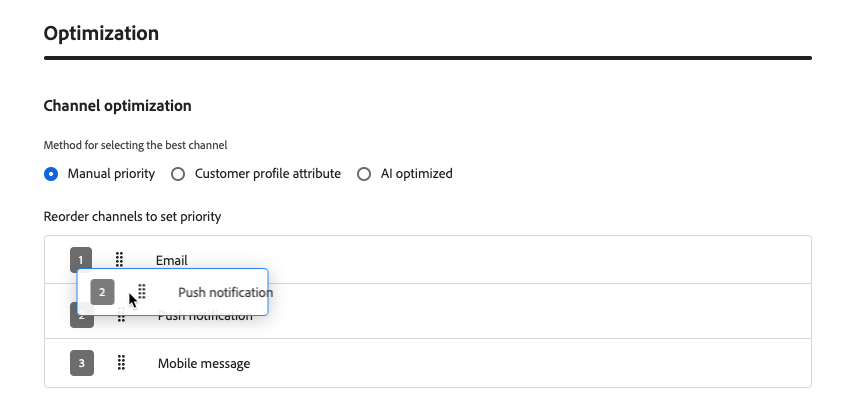
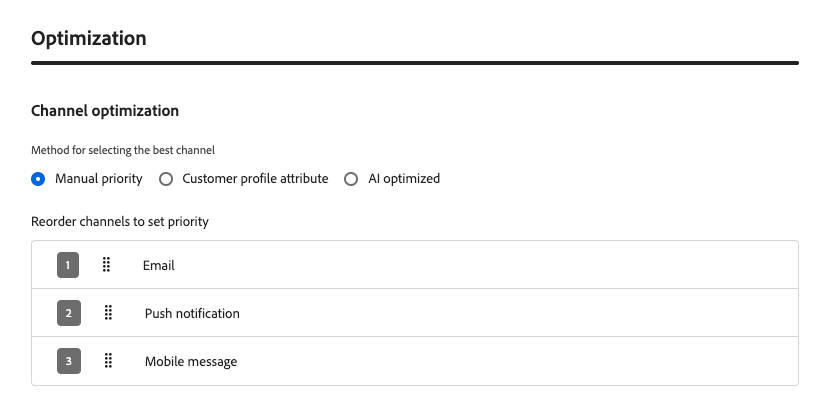
PM feedback + multiple small updates

diff --git a/help/using/building-journeys/channel-optimization.md b/help/using/building-journeys/channel-optimization.md
@@ -7,7 +7,7 @@ feature: Journeys, Activities, Channels Activity
 topic: Content Management, Artificial Intelligence
 role: User
 level: Intermediate
-keywords: channel, optimization, preference, propensity, AI, outbound, email, push, SMS
+keywords: channel, optimization, preference, propensity, AI, outbound, email, push, mobile message
 badge: label="Limited Availability" type="Informative"
 product_v2:
   - id: cb954087-f4fc-4456-afb9-e939cabcdc79
@@ -40,31 +40,39 @@ topic_v2:
 
 >[!BEGINSHADEBOX]
 
-**On this page:** Learn how to configure a journey action to deliver messages through the best outbound channel for each customer, using manual ranking, profile preferences, or AI-powered propensity scores.
+**On this page:** Learn how to configure a journey or campaign action to deliver messages through the best outbound channel for each customer, using manual ranking, profile preferences, or AI-powered propensity scores.
 
 >[!ENDSHADEBOX]
 
-Channel optimization lets you add multiple outbound channels (Email, Push, SMS) to a single journey action and have Journey Optimizer automatically select the best one for each customer at send time. Instead of choosing one channel upfront or messaging customers across all channels at once, the system picks the highest-ranked channel each customer is opted into and falls back gracefully when that channel is unavailable.
+Channel optimization lets you add multiple outbound channels (Email, Push, Mobile message) to a single journey or campaign action and have Journey Optimizer automatically select the best one for each customer at send time. Instead of choosing one channel upfront or messaging customers across all channels at once, the system picks the highest-ranked channel each customer is opted into and falls back gracefully when that channel is unavailable.
 
 ➡ [Learn more about channel optimization in this video](#video)
 
 ## Guardrails and limitations {#limitations}
 
-* **Supported channels**: Only native Email, Push, and SMS (mobile messaging) channels are supported. Other outbound channels such as WhatsApp are not supported. Channel optimization requires the use of AJO's native email, push, and mobile messaging capabilities; execution through custom actions is not supported.
+* **Supported channels**: Only native Email, Push, and Mobile message channels are supported. Other outbound channels such as WhatsApp are not supported. Channel optimization requires the use of Journey Optimizer's native email, push, and mobile messaging capabilities; execution through custom actions is not supported.
 
 * **AI optimization metric**: The AI model optimizes for engagement (clicks) only. It does not optimize for orders, revenue, or other business metrics. If optimization for orders or revenue is required, a custom model can be trained offline by your data science team and applied via the customer profile attribute feature.
 
 * **Click tracking required for AI ranking**: When using AI model-based ranking, click tracking must be enabled for all configured channels. The model relies on click data to compute propensity scores; if tracking is disabled, the AI ranking mode cannot function correctly. [Learn how to enable click tracking in email](../email/message-tracking.md)
 
-* **Quiet hours**: All channels within a single channel optimization action must share the same quiet hours rule. If different quiet hours settings are required per channel, create separate journey actions instead of combining channels into a single action. In campaigns, the form validates that the same quiet hours rule is applied to all actions.
+* **Quiet hours**: When multiple channels are combined in a single action, quiet hours are applied based on channel priority: Mobile messaging takes precedence, followed by Push, then Email. To use different quiet hours settings per channel, create separate journey actions rather than combining channels in a single action.
+
+  >[!NOTE]
+  >
+  >Support for per-channel quiet hours settings is planned for the General Availability release.
 
 * **Send-Time Optimization incompatibility**: Currently [Send-Time Optimization](send-time-optimization.md) and channel optimization cannot be used together — choose one or the other. The UI prevents enabling both features simultaneously on the same action.
 
-* **Reaction events**: Reaction events on the journey canvas currently reference only the first channel in a multi-channel action. Support for selecting any valid reaction event when multiple channels are present is planned for GA.
+* **Reaction events**: Reaction events on the journey canvas currently reference only the first channel in a multi-channel action.
+
+  >[!NOTE]
+  >
+  >Support for selecting any valid reaction event when multiple channels are present is planned for the General Availability release.
 
 ## Use channel optimization in a journey or a campaign {#configure}
 
-To add multiple outbound channels with channel optimization, follow the steps below.
+To add multiple outbound channels with channel optimization to a journey or a campaign, follow the steps below.
 
 >[!BEGINTABS]
 
@@ -74,7 +82,7 @@ To add multiple outbound channels with channel optimization, follow the steps be
 
 1. From the **[!UICONTROL Actions]** section of the palette, drag and drop an **[!UICONTROL Action]** activity into the canvas.
 
-1. Select an outbound channel (Email, Push, or SMS) and click **[!UICONTROL Add]**.
+1. Select an outbound channel (Email, Push, or Mobile message) and click **[!UICONTROL Add]**.
 
     ![Add an outbound channel to a journey action](assets/journey-channel-optimization-add-outbound.png){width="60%"}
 
@@ -84,11 +92,11 @@ To add multiple outbound channels with channel optimization, follow the steps be
 
 1. [Create an Action campaign](../campaigns/create-campaign.md) and navigate to the **[!UICONTROL Actions]** tab.
 
-1. Click the **[!UICONTROL Add action]** button and select an outbound channel (Email, Push, or SMS).
+1. Click the **[!UICONTROL Add action]** button and select an outbound channel (Email, Push, or Mobile message).
 
 >[!ENDTABS]
 
-Once an outbound action is selected in the **[!UICONTROL Actions]** tab, continue with the following steps:
+Once an outbound action is selected in the **[!UICONTROL Actions]** tab, continue with the following steps.
 
 1. Select a channel configuration and click **[!UICONTROL Add action]** to select another outbound channel.
 
@@ -98,15 +106,17 @@ Once an outbound action is selected in the **[!UICONTROL Actions]** tab, continu
     >
     >Only one action per channel type is supported in a single multi-channel action. For example, you cannot add two separate Email actions with different configurations.
 
-    You can add up to three outbound channels (**[!UICONTROL Email]**, **[!UICONTROL Push]**, **[!UICONTROL SMS]**) to a single journey action or campaign.
+    You can add up to three outbound channels (**[!UICONTROL Email]**, **[!UICONTROL Push]**, **[!UICONTROL Mobile message]**) to a single journey action or campaign.
 
 1. In the **[!UICONTROL Channel optimization]** section, set the method to determine how the system selects the best channel for each customer. [Learn more](#optimization-modes)
 
     ![Select a channel optimization mode](assets/journey-channel-optimization-modes.png){width="100%"}
 
-1. Set your fallback channel order (for manual ranking and customer preference modes). [Learn more](#fallback)
+1. Set your fallback channel order (for manual ranking and customer preference methods) by dragging and dropping the channels into the desired order. [Learn more](#fallback)
 
-1. Save and publish your journey, or review and activate your campaign.
+    ![Manual ranking channel optimization reorder](assets/journey-channel-optimization-manual-reorder.png){width="90%"}
+
+1. [Save and publish](publish-journey.md) your journey, or [review and activate](../campaigns/review-activate-campaign.md) your campaign.
 
 ## Set the channel optimization method {#optimization-modes}
 
@@ -119,7 +129,7 @@ Channel optimization supports three modes, each using a different method to sele
 
 ### Manual ranking {#manual-ranking}
 
-You define the preferred channel order directly in the action. Journey Optimizer delivers through the first channel in your list that the customer is opted into and is not frequency-capped, then falls back to the next channel if needed.
+**[!UICONTROL Manual priority]** is the default mode. You define the preferred channel order directly in the action. Journey Optimizer delivers through the first channel in your list that the customer is opted into and is not frequency-capped, then [falls back](#fallback) to the next channel if needed.
 
 ![Manual ranking channel optimization](assets/journey-channel-optimization-manual.png){width="90%"}
 
@@ -127,19 +137,19 @@ Use this mode when you have a clear, consistent channel preference and do not ne
 
 ### Customer preference {#customer-preference}
 
-Journey Optimizer reads the customer's declared preferred channel from their profile, using the `preferred` attribute in the [Consents and Preferences XDM field group](https://experienceleague.adobe.com/en/docs/experience-platform/xdm/field-groups/profile/consents). Supported values are `email`, `push`, and `sms`.
+With **[!UICONTROL Customer profile attribute]** selected, Journey Optimizer reads the customer's declared preferred channel from their profile, using the `preferred` attribute in the [Consents and Preferences XDM field group](https://experienceleague.adobe.com/en/docs/experience-platform/xdm/field-groups/profile/consents). Supported values are `email`, `push`, and `sms`.
 
 ![Customer preference channel optimization](assets/journey-channel-optimization-profile.png){width="90%"}
 
-If the preferred channel is unavailable (not configured, not opted-in, or frequency-capped), Journey Optimizer falls back to the next channel in your configured fallback list.
+If the preferred channel is unavailable (not configured, not opted-in, or frequency-capped), Journey Optimizer falls back to the next channel in your configured [fallback](#fallback) list.
 
 Use this mode when customers have explicitly stated their preferred communication channel.
 
 ### AI model-based ranking {#ai-ranking}
 
-Journey Optimizer uses a machine learning model that computes a per-channel propensity score for each customer based on their historical engagement (opens, clicks). Scores are stored in the customer's profile and the channel with the highest predicted propensity is selected at send time.
+If you select **[!UICONTROL AI optimized]**, Journey Optimizer uses a machine learning model that computes a per-channel propensity score for each customer based on their historical engagement (opens, clicks). Scores are stored in the customer's profile and the channel with the highest predicted propensity is selected at send time.
 
-![AI model-based ranking channel optimization](assets/journey-channel-optimization-ai.png){width="90%"}
+![AI model-based ranking channel optimization](assets/journey-channel-optimization-ai.png){width="70%"}
 
 When a customer has insufficient engagement history, the system falls back to a randomly available channel.
 
@@ -154,7 +164,7 @@ Regardless of the optimization mode, Journey Optimizer falls back to the next av
 * The channel has reached its frequency cap.
 * The customer's profile preference or AI model score for that channel is not populated.
 
-Under **manual ranking** and **customer preference** modes, fallback follows the marketer's configured channel priority list. Under **AI model-based ranking**, fallback selects a random available channel.
+Under **[!UICONTROL Manual priority]** and **[!UICONTROL Customer profile attribute]** modes, fallback follows the marketer's configured channel priority list. Under **[!UICONTROL AI optimized]**, fallback selects a random available channel.
 
 ## How-to video {#video}
 
